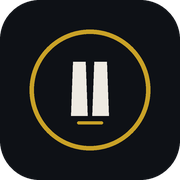
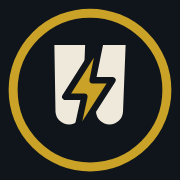
feat(marque): a mark, drawn once
The two panels of the advocate's bib crossed by a bolt. Drawn in SVG so it stays sharp
at any size and follows the theme: cream on ink, ink on paper.

The icons and the social card are rendered from that same drawing by scripts/icones.py,
which reads the paths out of the module. Redrawing a logo by hand for each size is how
it starts to drift.

Claude-Session: https://claude.ai/code/session_01CZLjVosQ8x9KQLk7Lr8PMW

diff --git a/js/ui.js b/js/ui.js
@@ -150,3 +150,18 @@ export function court(texte, max = 90) {
   const coupe = texte.slice(0, max);
   return `${coupe.slice(0, coupe.lastIndexOf(' '))}…`;
 }
+
+/**
+ * Marque de l'application : les deux pans du rabat de l'avocat, traversés d'un éclair.
+ * Dessinée en SVG plutôt qu'en image pour rester nette à toute taille et suivre le thème.
+ */
+export function logo(taille = 30) {
+  return svg(
+    'svg',
+    { class: 'logo', width: taille, height: taille, viewBox: '0 0 48 48', 'aria-hidden': 'true', focusable: 'false' },
+    svg('circle', { class: 'logo-anneau', cx: 24, cy: 24, r: 20.5, fill: 'none', 'stroke-width': 2.4 }),
+    svg('path', { class: 'logo-pan', d: 'M14.5 12h8.2l-.7 17.8a3.6 3.6 0 0 1-3.6 3.4 3.6 3.6 0 0 1-3.6-3.4z' }),
+    svg('path', { class: 'logo-pan', d: 'M25.3 12h8.2l-.7 17.8a3.6 3.6 0 0 1-3.6 3.4 3.6 3.6 0 0 1-3.6-3.4z' }),
+    svg('path', { class: 'logo-eclair', d: 'M26.8 11 17.4 25.8h5.1l-2.4 11L30 21.4h-5.3z', 'stroke-width': 1.7, 'stroke-linejoin': 'round' })
+  );
+}

diff --git a/index.html b/index.html
@@ -42,6 +42,7 @@
 <header class="entete" id="entete">
   <button type="button" class="retour cache" id="retour" aria-label="Retour">←</button>
   <a class="marque" href="#/" id="marque">
+    <span class="marque-logo" id="marque-logo"></span>
     <span class="marque-nom">Déonto<span class="marque-flash">Flash</span></span>
   </a>
   <div class="entete-droite">

diff --git a/scripts/icones.py b/scripts/icones.py
@@ -1,0 +1,146 @@
+#!/usr/bin/env python3
+"""Rebuilds the icons and the social card from the application's own mark.
+
+The mark is drawn once, in `js/ui.js`. Redrawing it by hand for each icon is how a logo
+starts to drift, so this script reads the paths from that file and renders them.
+
+Usage:
+    python3 scripts/icones.py [--out assets]
+"""
+
+from __future__ import annotations
+
+import argparse
+import re
+from pathlib import Path
+
+from playwright.sync_api import sync_playwright
+
+RACINE = Path(__file__).resolve().parent.parent
+
+OR = "#c9a227"
+OR_CLAIR = "#e4c767"
+RABAT = "#efe9dc"
+FOND = "#0e1116"
+FOND_HAUT = "#10151b"
+TEXTE = "#eae6de"
+DOUX = "#98a1ad"
+
+
+def chemins() -> dict[str, str]:
+    """Extrait les tracés de la marque depuis le module qui la dessine."""
+    source = (RACINE / "js" / "ui.js").read_text(encoding="utf-8")
+    trouves = re.findall(r"class: 'logo-(\w+)', d: '([^']+)'", source)
+    tracés = {nom: d for nom, d in trouves}
+    manquants = {"pan", "eclair"} - set(tracés)
+    if manquants:
+        raise SystemExit(f"tracés introuvables dans js/ui.js : {', '.join(sorted(manquants))}")
+    pans = [d for nom, d in trouves if nom == "pan"]
+    return {"pans": pans, "eclair": tracés["eclair"]}
+
+
+def marque(taille: int, fond: str | None, rayon: float = 20.5, epaisseur: float = 2.4) -> str:
+    t = chemins()
+    pans = "".join(f'<path d="{d}" fill="{RABAT}"/>' for d in t["pans"])
+    disque = f'<circle cx="24" cy="24" r="24" fill="{fond}"/>' if fond else ""
+    return (
+        f'<svg xmlns="http://www.w3.org/2000/svg" width="{taille}" height="{taille}" viewBox="0 0 48 48">'
+        f"{disque}"
+        f'<circle cx="24" cy="24" r="{rayon}" fill="none" stroke="{OR}" stroke-width="{epaisseur}"/>'
+        f"{pans}"
+        f'<path d="{t["eclair"]}" fill="{OR}" stroke="{fond or FOND}" stroke-width="1.7" stroke-linejoin="round"/>'
+        "</svg>"
+    )
+
+
+def page_icone(svg: str, taille: int, fond: str) -> str:
+    return (
+        f'<!doctype html><meta charset="utf-8">'
+        f"<style>html,body{{margin:0;width:{taille}px;height:{taille}px;background:{fond};"
+        f"display:flex;align-items:center;justify-content:center}}</style>{svg}"
+    )
+
+
+def page_og() -> str:
+    t = chemins()
+    pans = "".join(f'<path d="{d}" fill="{RABAT}"/>' for d in t["pans"])
+    return f"""<!doctype html><meta charset="utf-8">
+<link rel="stylesheet" href="../css/app.css">
+<style>
+ html,body {{ margin:0; width:1200px; height:630px; background:{FOND}; color:{TEXTE};
+   font-family: Inter, system-ui, sans-serif; overflow:hidden; }}
+ .cadre {{ position:absolute; inset:0; display:flex; flex-direction:column;
+   justify-content:center; padding:0 88px; gap:26px; }}
+ .haut {{ display:flex; align-items:center; gap:22px; }}
+ .nom {{ font-family: Spectral, Georgia, serif; font-weight:700; font-size:44px; letter-spacing:-.02em; }}
+ .nom i {{ color:{OR}; font-style:normal; }}
+ h1 {{ font-family: Spectral, Georgia, serif; font-weight:700; font-size:74px; line-height:1.06;
+   margin:0; letter-spacing:-.025em; max-width:19ch; }}
+ p {{ margin:0; font-size:26px; color:{DOUX}; max-width:44ch; line-height:1.4; }}
+ .chiffres {{ display:flex; gap:44px; margin-top:8px; }}
+ .c b {{ font-family:"DM Mono", ui-monospace, monospace; font-size:34px; color:{OR_CLAIR}; font-weight:500; }}
+ .c span {{ display:block; font-size:15px; letter-spacing:.14em; text-transform:uppercase; color:{DOUX}; margin-top:4px; }}
+ .filet {{ position:absolute; left:0; right:0; bottom:0; height:8px;
+   background:linear-gradient(90deg,{OR},{OR_CLAIR},{OR}); }}
+</style>
+<div class="cadre">
+  <div class="haut">
+    <svg width="72" height="72" viewBox="0 0 48 48">
+      <circle cx="24" cy="24" r="20.5" fill="none" stroke="{OR}" stroke-width="2.4"/>
+      {pans}
+      <path d="{t['eclair']}" fill="{OR}" stroke="{FOND_HAUT}" stroke-width="1.7" stroke-linejoin="round"/>
+    </svg>
+    <span class="nom">Déonto<i>Flash</i></span>
+  </div>
+  <h1>Déontologie de l’avocat</h1>
+  <p>Le programme officiel, la révision espacée et un simulateur d’oral de trente minutes.</p>
+  <div class="chiffres">
+    <div class="c"><b>34</b><span>sujets</span></div>
+    <div class="c"><b>300</b><span>fiches</span></div>
+    <div class="c"><b>129</b><span>questions</span></div>
+    <div class="c"><b>34</b><span>cas pratiques</span></div>
+  </div>
+</div>
+<div class="filet"></div>"""
+
+
+def main() -> int:
+    parseur = argparse.ArgumentParser(description=__doc__)
+    parseur.add_argument("--out", default="assets")
+    args = parseur.parse_args()
+    sortie = RACINE / args.out
+    sortie.mkdir(exist_ok=True)
+
+    # Le masque d'Android rogne les bords : la marque y est reduite pour tenir dans le cercle sur.
+    travaux = [
+        ("favicon.png", 512, marque(512, None), FOND),
+        ("apple-touch-icon.png", 180, marque(180, FOND_HAUT), FOND_HAUT),
+        ("maskable.png", 512, marque(512, FOND_HAUT, rayon=14.5, epaisseur=1.7), FOND_HAUT),
+    ]
+
+    with sync_playwright() as p:
+        navigateur = p.chromium.launch(channel="chrome")
+        for nom, taille, svg, fond in travaux:
+            page = navigateur.new_page(viewport={"width": taille, "height": taille})
+            page.set_content(page_icone(svg, taille, fond))
+            page.wait_for_timeout(150)
+            page.screenshot(path=str(sortie / nom), omit_background=(fond is None))
+            page.close()
+            print(f"  · {nom} {taille}×{taille}")
+
+        page = navigateur.new_page(viewport={"width": 1200, "height": 630})
+        # Servi depuis le dossier des scripts pour que la feuille de style et les polices chargent.
+        (RACINE / "scripts" / ".og.html").write_text(page_og(), encoding="utf-8")
+        page.goto(f"file://{RACINE / 'scripts' / '.og.html'}")
+        page.wait_for_timeout(700)
+        page.screenshot(path=str(sortie / "og.png"))
+        (RACINE / "scripts" / ".og.html").unlink()
+        print("  · og.png 1200×630")
+        navigateur.close()
+
+    print(f"\nicônes régénérées depuis js/ui.js dans {sortie}/")
+    return 0
+
+
+if __name__ == "__main__":
+    raise SystemExit(main())
